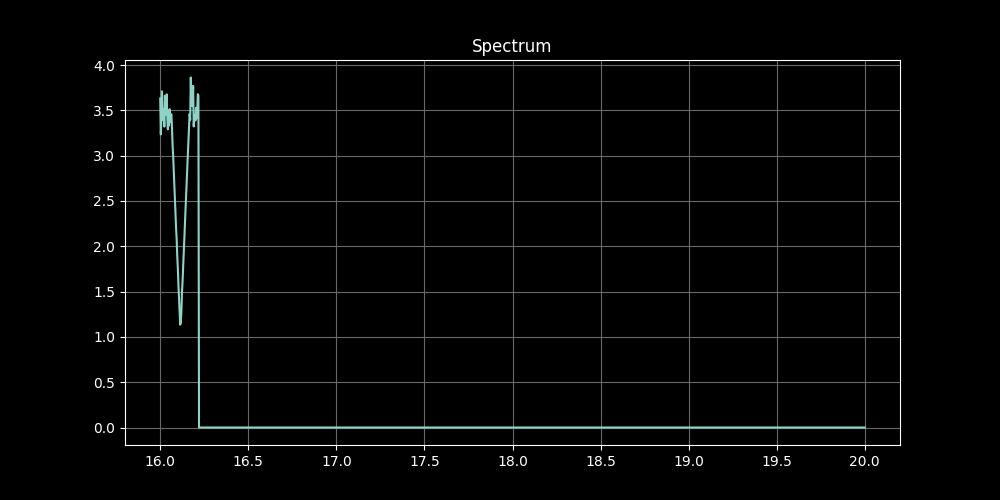
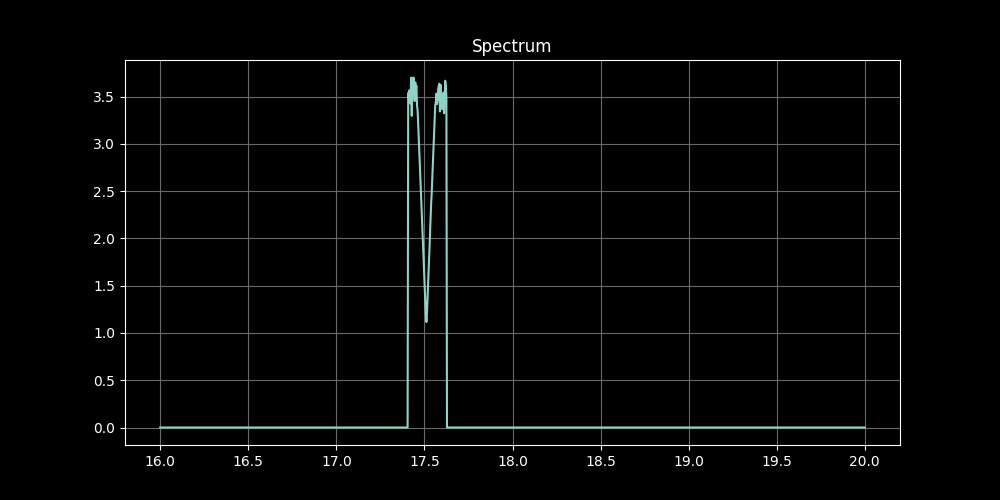
correct placement of iteration within spectrum

diff --git a/data_processor.py b/data_processor.py
@@ -12,12 +12,14 @@ import os
 def process_data(path):
 
     # Single data load
-    nmr = np.loadtxt(path + "159947_nmr.txt")
-    lf = np.loadtxt(path + "159947_lf.txt")
+    file_to_load = "173059"
+    nmr_file = file_to_load + "_nmr.txt"
+    lf_file = file_to_load + "_lf.txt"
+    nmr = np.loadtxt(path + nmr_file)
+    lf = np.loadtxt(path + lf_file)
 
     # Extract hf_setting
-    nmr_ile_string = "159947_nmr.txt"
-    hf_setting = extract_decimal(nmr_ile_string)
+    hf_setting = extract_decimal(nmr_file)
     # print(hf_setting)
 
     # Initialize empty NMR Spectrum
@@ -104,6 +106,7 @@ def iteration_combine(Spectrum, NMR_iteration, LF_iteration, HF_setting):
 
     # Find first close index pair
     idx_spec, idx_lf = find_closest(LF_iteration, Spectrum[0,:])
+
     # Test two closest spectrum points
     diff = [abs(LF_iteration[idx_lf] - Spectrum[0,idx_spec]), 
             abs(LF_iteration[idx_lf] - Spectrum[0,idx_spec+1])]
@@ -116,11 +119,11 @@ def iteration_combine(Spectrum, NMR_iteration, LF_iteration, HF_setting):
 
     # Insert NMR data into spectrum
     for i in range(len(NMR_iteration)):
-        if 16 <= LF_iteration[i] <= 20:
-            if Spectrum[1,i] != 0:
-                Spectrum[1,i] = (Spectrum[1,i] + NMR_iteration[i])/2
+        if 16 <= LF_iteration[idx_lf+i] <= 20:
+            if Spectrum[1,idx_spec+i] != 0:
+                Spectrum[1,idx_spec+i] = (Spectrum[1,idx_spec+i] + NMR_iteration[idx_lf+i])/2
             else:
-                Spectrum[1,i] = NMR_iteration[i]
+                Spectrum[1,idx_spec+i] = NMR_iteration[i]
 
     # for each data in iteration
         # if iteration data within spectrum range
@@ -128,8 +131,6 @@ def iteration_combine(Spectrum, NMR_iteration, LF_iteration, HF_setting):
                 # merge by averageing
             # Elseif no data at point currently
                 # set point equal to current iteration value
-
-    print(np.max(LF_iteration))
 
     return Spectrum
 
